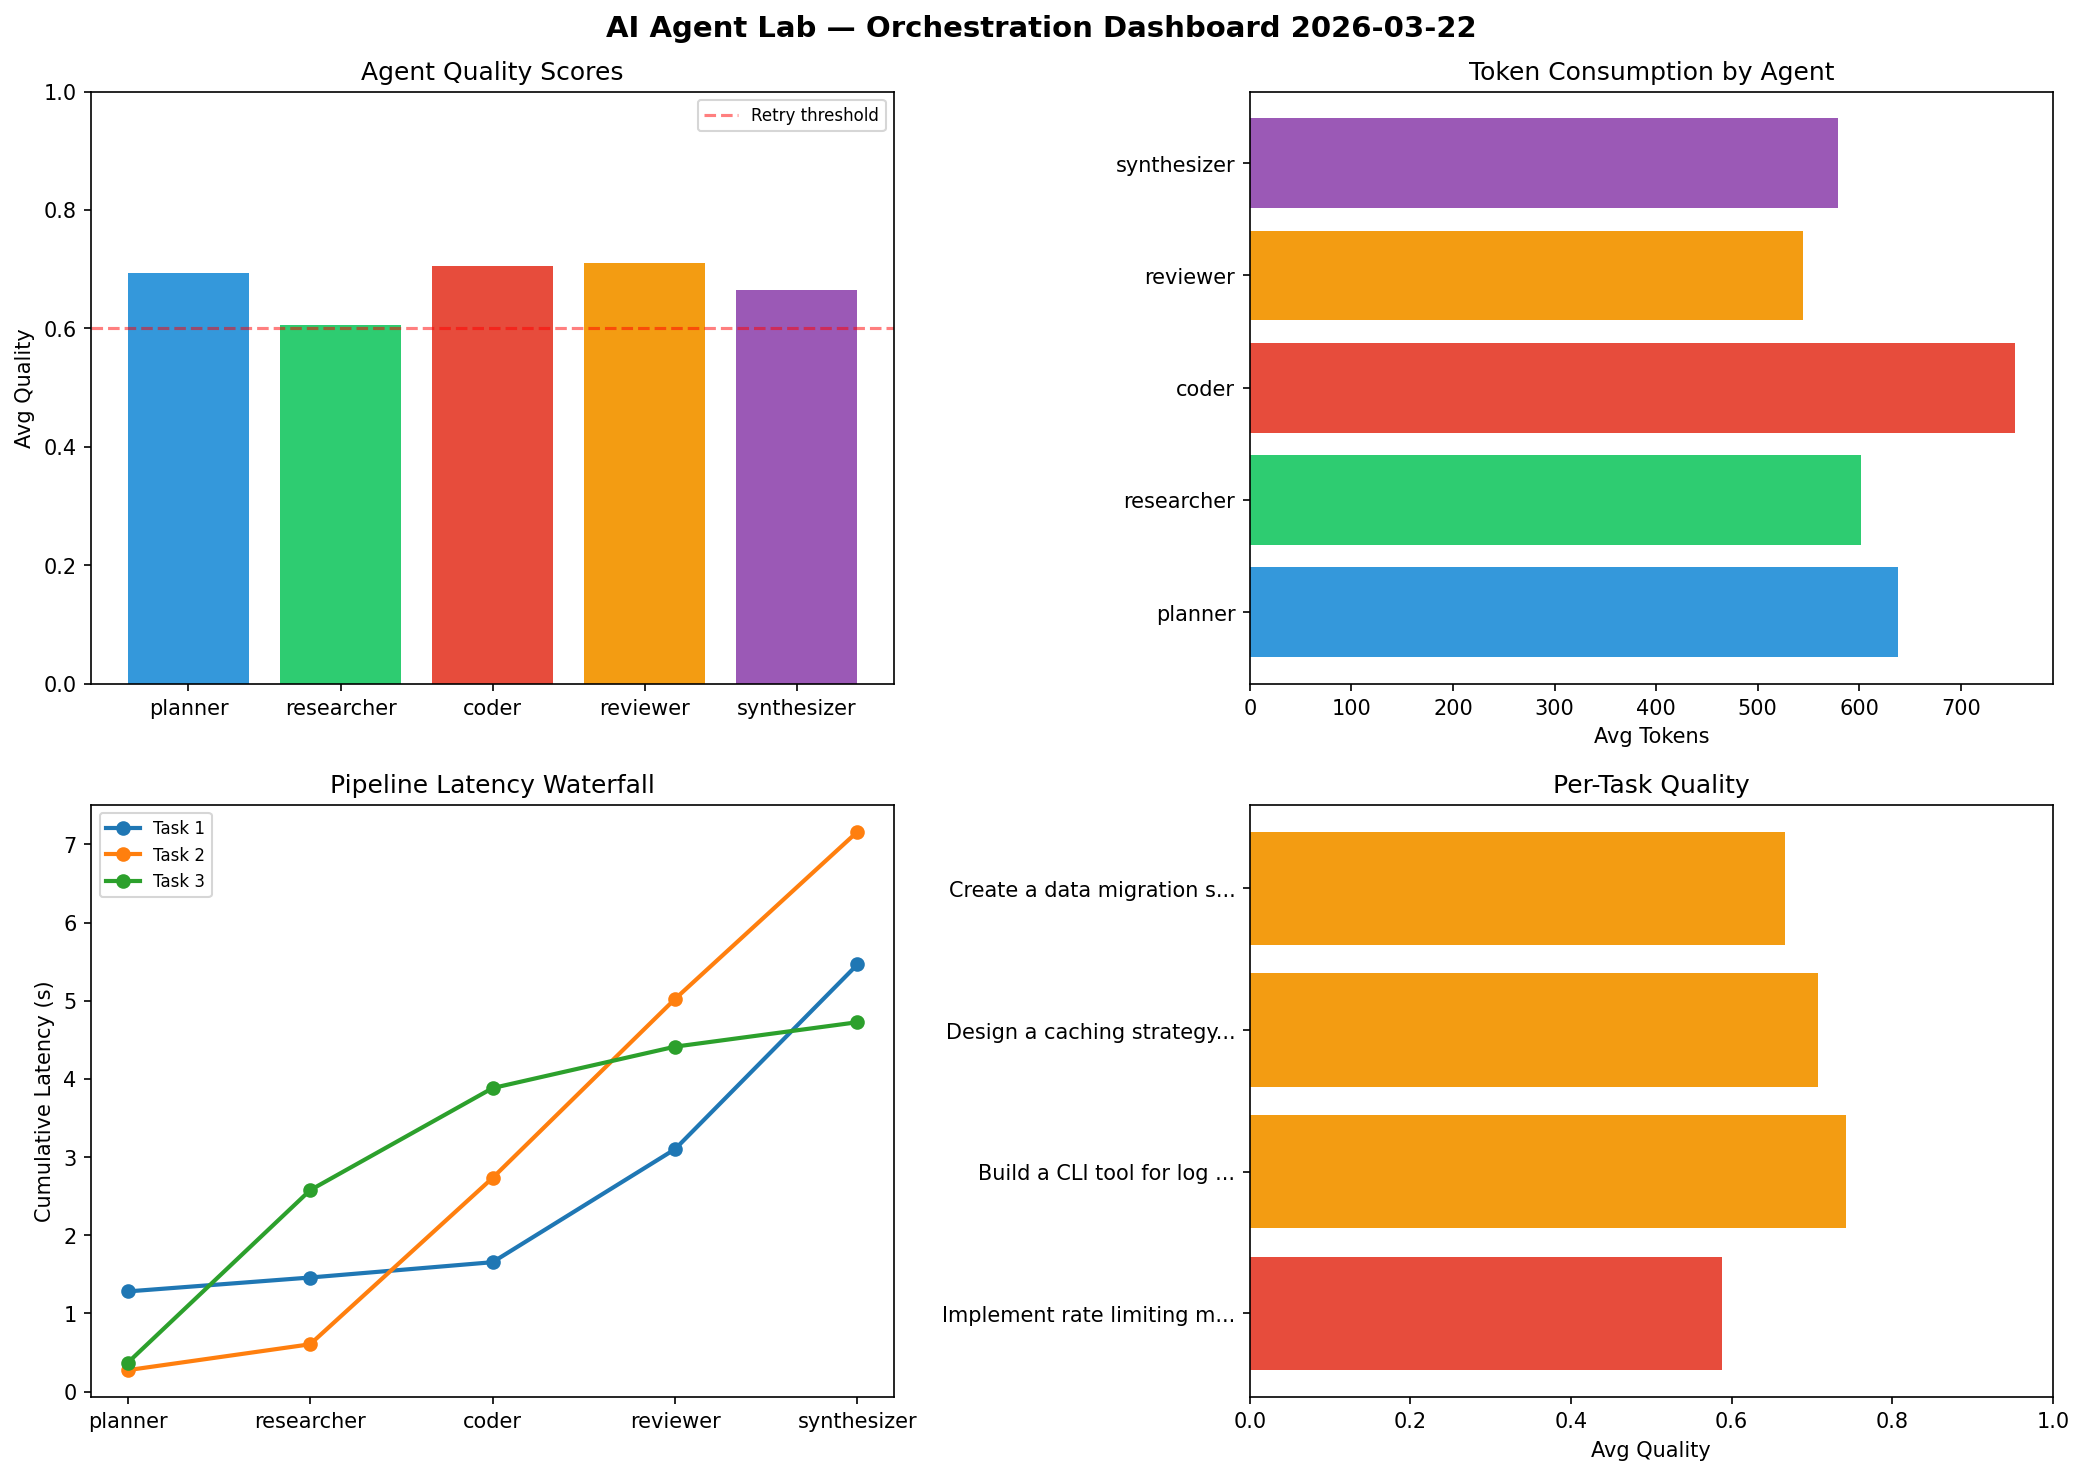
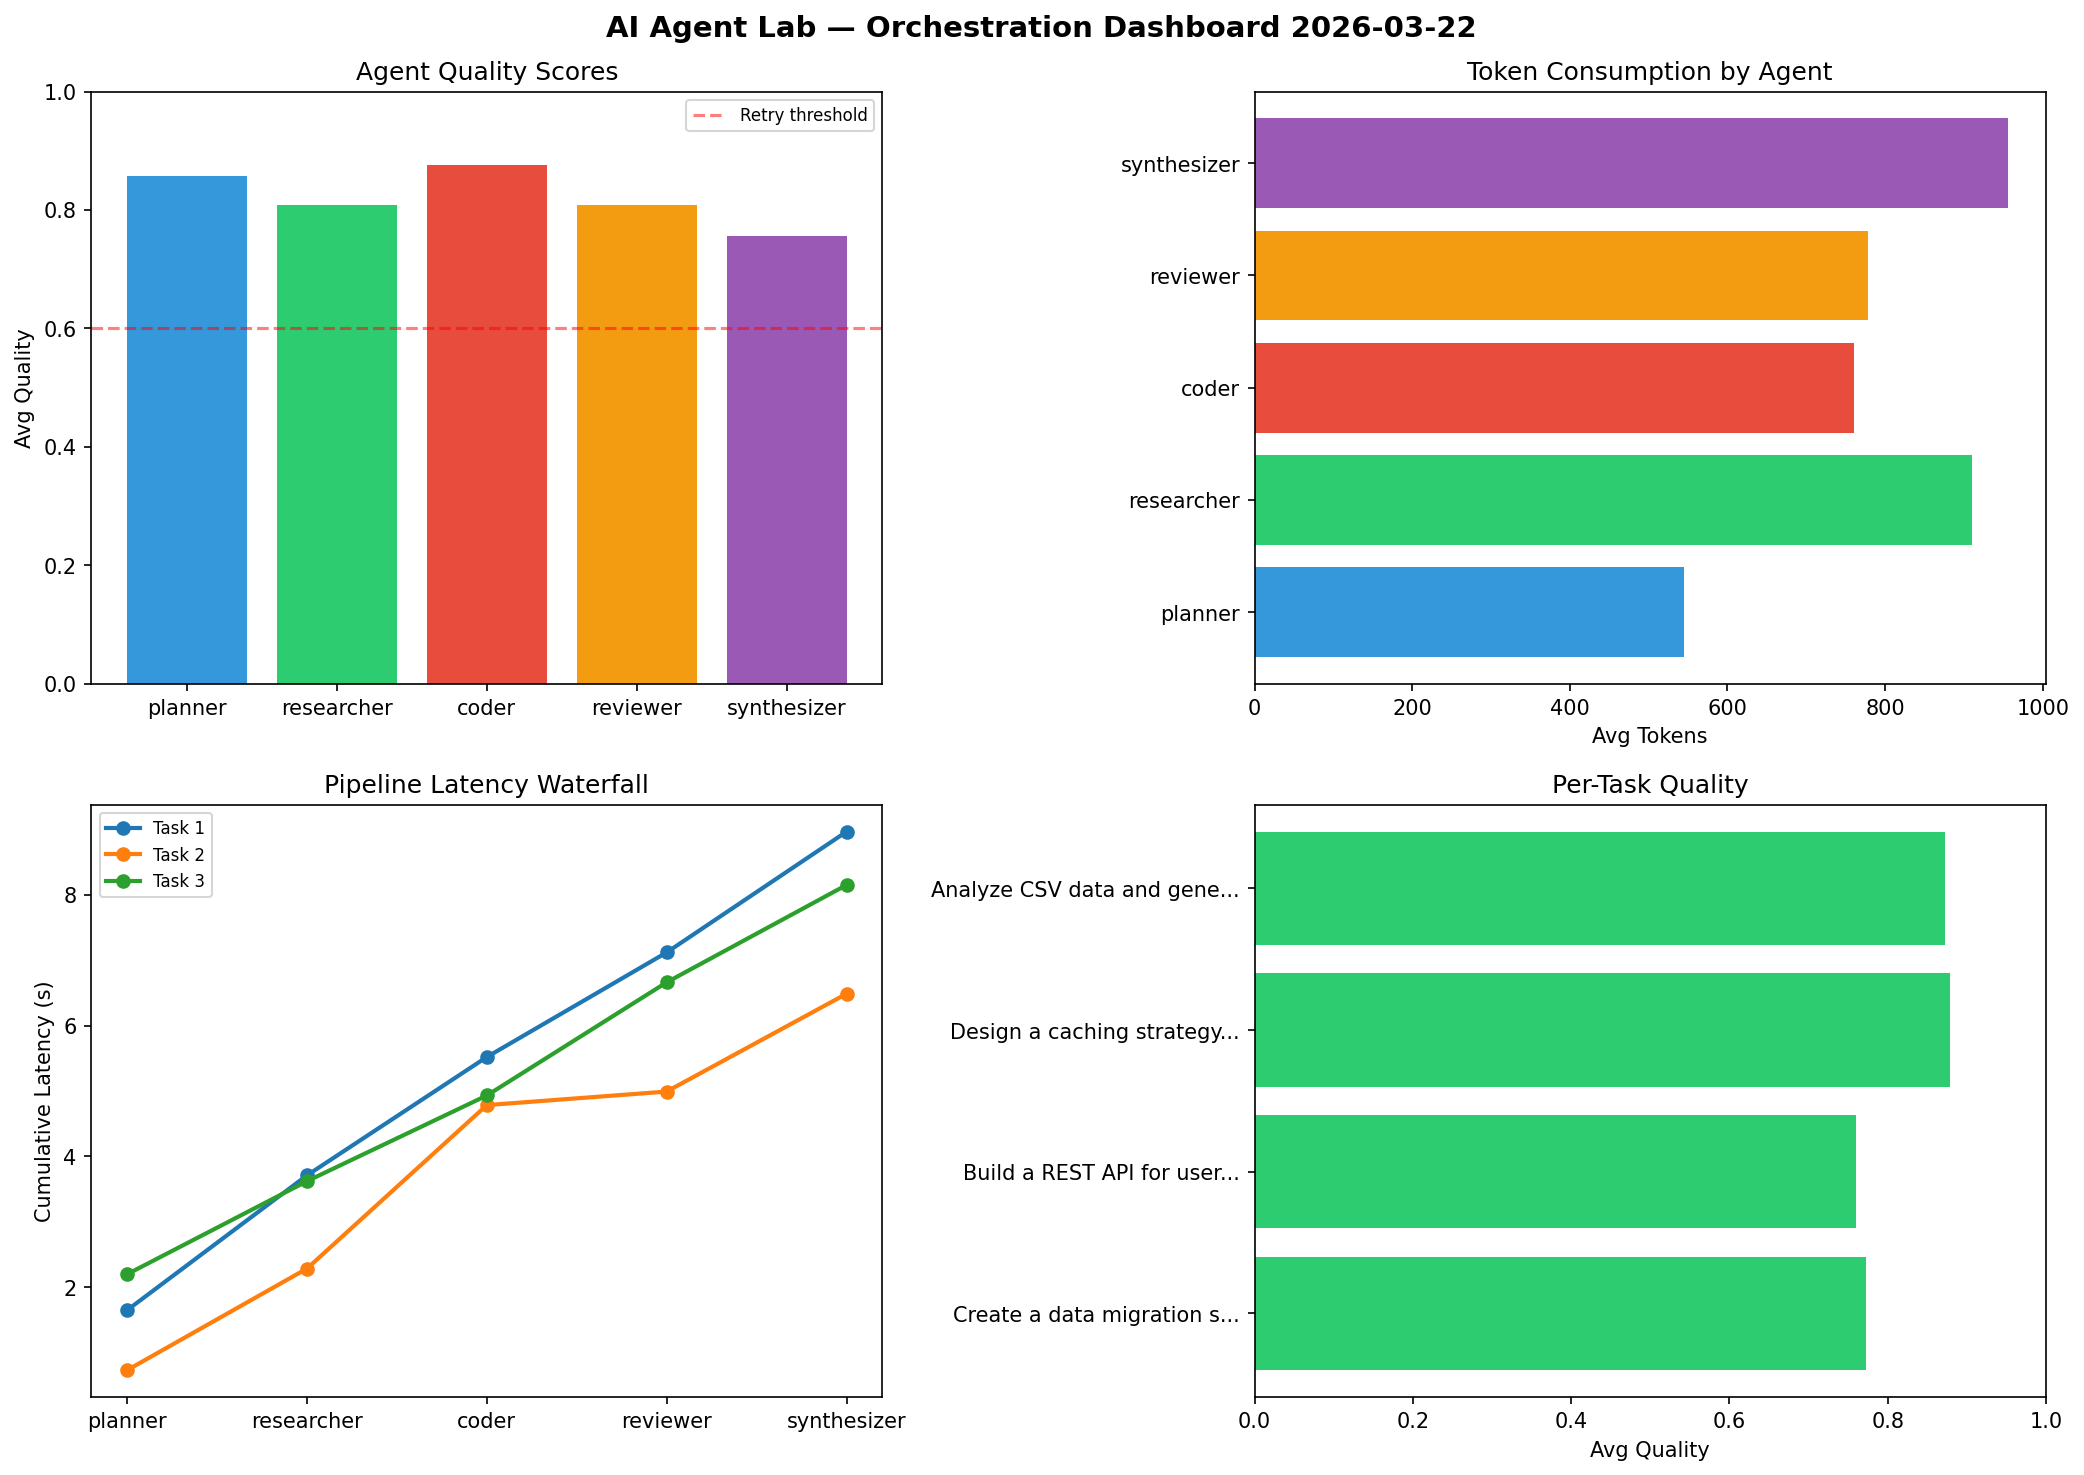
ai-agent-lab: orchestration run 2026-03-22T20:47

diff --git a/logs/2026-03-22.md b/logs/2026-03-22.md
@@ -1,6 +1,6 @@
 # AI Agent Lab — Orchestration Report 2026-03-22
 
-**Run ID:** `e8a4d812d2` | **Tasks:** 4 | **Avg Quality:** 0.676
+**Run ID:** `2db4c707b8` | **Tasks:** 4 | **Avg Quality:** 0.821
 
 ![Dashboard](2026-03-22_dashboard.png)
 
@@ -8,52 +8,52 @@
 
 | Metric | Value |
 |--------|-------|
-| avg_latency | 5.859 |
-| total_tokens | 12470 |
-| avg_quality | 0.676 |
+| avg_latency | 6.941 |
+| total_tokens | 15798 |
+| avg_quality | 0.821 |
 
 ## Delta vs Yesterday
 
 | Metric | Today | Yesterday | Change |
 |--------|-------|-----------|--------|
-| avg_latency | 5.859 | 6.172 | 📉 -5.1% |
-| total_tokens | 12470 | 13842 | 📉 -9.9% |
-| avg_quality | 0.676 | 0.751 | 📉 -10.0% |
+| avg_latency | 6.941 | 6.172 | 📈 12.5% |
+| total_tokens | 15798 | 13842 | 📈 14.1% |
+| avg_quality | 0.821 | 0.751 | 📈 9.3% |
 
 ## Pipeline Results
-
-### Implement rate limiting middleware
-| Agent | Quality | Latency | Tokens | Status |
-|-------|---------|---------|--------|--------|
-| planner | 0.56 | 1.282s | 957 | needs_retry |
-| researcher | 0.537 | 0.178s | 609 | needs_retry |
-| coder | 0.525 | 0.196s | 406 | needs_retry |
-| reviewer | 0.797 | 1.446s | 393 | success |
-| synthesizer | 0.521 | 2.363s | 789 | needs_retry |
-
-### Build a CLI tool for log analysis
-| Agent | Quality | Latency | Tokens | Status |
-|-------|---------|---------|--------|--------|
-| planner | 0.775 | 0.275s | 292 | success |
-| researcher | 0.739 | 0.331s | 369 | success |
-| coder | 0.775 | 2.128s | 1068 | success |
-| reviewer | 0.768 | 2.289s | 348 | success |
-| synthesizer | 0.656 | 2.14s | 499 | success |
-
-### Design a caching strategy for high-traffic endpoints
-| Agent | Quality | Latency | Tokens | Status |
-|-------|---------|---------|--------|--------|
-| planner | 0.613 | 0.369s | 568 | success |
-| researcher | 0.567 | 2.208s | 721 | needs_retry |
-| coder | 0.866 | 1.306s | 874 | success |
-| reviewer | 0.571 | 0.53s | 477 | needs_retry |
-| synthesizer | 0.919 | 0.313s | 535 | success |
 
 ### Create a data migration script for schema v2
 | Agent | Quality | Latency | Tokens | Status |
 |-------|---------|---------|--------|--------|
-| planner | 0.829 | 2.158s | 737 | success |
-| researcher | 0.578 | 1.536s | 710 | needs_retry |
-| coder | 0.654 | 1.746s | 664 | success |
-| reviewer | 0.708 | 0.282s | 962 | success |
-| synthesizer | 0.563 | 0.359s | 492 | needs_retry |
+| planner | 0.792 | 1.65s | 567 | success |
+| researcher | 0.961 | 2.061s | 706 | success |
+| coder | 0.572 | 1.809s | 947 | needs_retry |
+| reviewer | 0.908 | 1.599s | 1052 | success |
+| synthesizer | 0.634 | 1.846s | 1094 | success |
+
+### Build a REST API for user authentication
+| Agent | Quality | Latency | Tokens | Status |
+|-------|---------|---------|--------|--------|
+| planner | 0.845 | 0.733s | 650 | success |
+| researcher | 0.538 | 1.553s | 1118 | needs_retry |
+| coder | 0.983 | 2.499s | 842 | success |
+| reviewer | 0.752 | 0.207s | 837 | success |
+| synthesizer | 0.684 | 1.495s | 987 | success |
+
+### Design a caching strategy for high-traffic endpoints
+| Agent | Quality | Latency | Tokens | Status |
+|-------|---------|---------|--------|--------|
+| planner | 0.823 | 2.2s | 565 | success |
+| researcher | 0.925 | 1.422s | 936 | success |
+| coder | 1.0 | 1.31s | 890 | success |
+| reviewer | 0.667 | 1.73s | 454 | success |
+| synthesizer | 0.981 | 1.488s | 965 | success |
+
+### Analyze CSV data and generate statistical summary
+| Agent | Quality | Latency | Tokens | Status |
+|-------|---------|---------|--------|--------|
+| planner | 0.97 | 0.409s | 395 | success |
+| researcher | 0.811 | 2.321s | 881 | success |
+| coder | 0.95 | 0.69s | 365 | success |
+| reviewer | 0.907 | 0.31s | 768 | success |
+| synthesizer | 0.724 | 0.433s | 779 | success |
